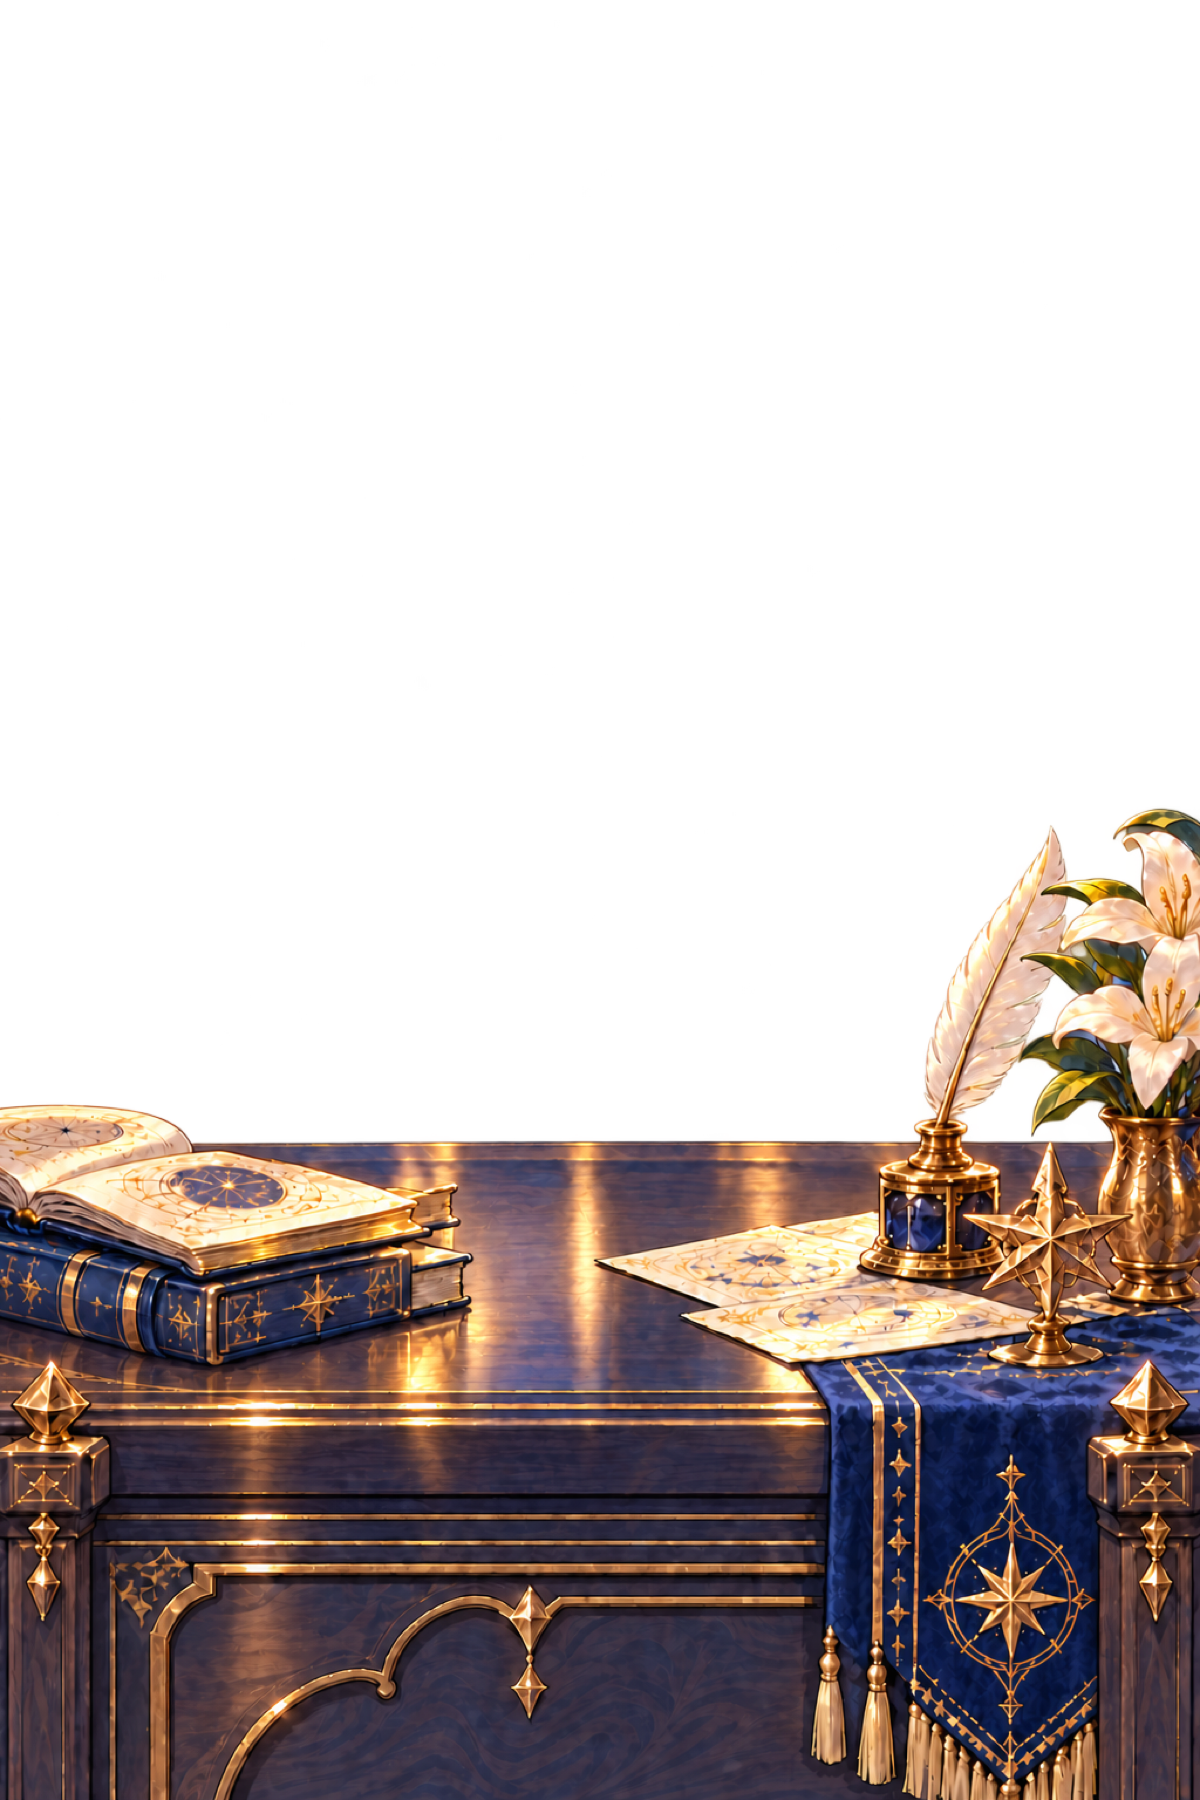
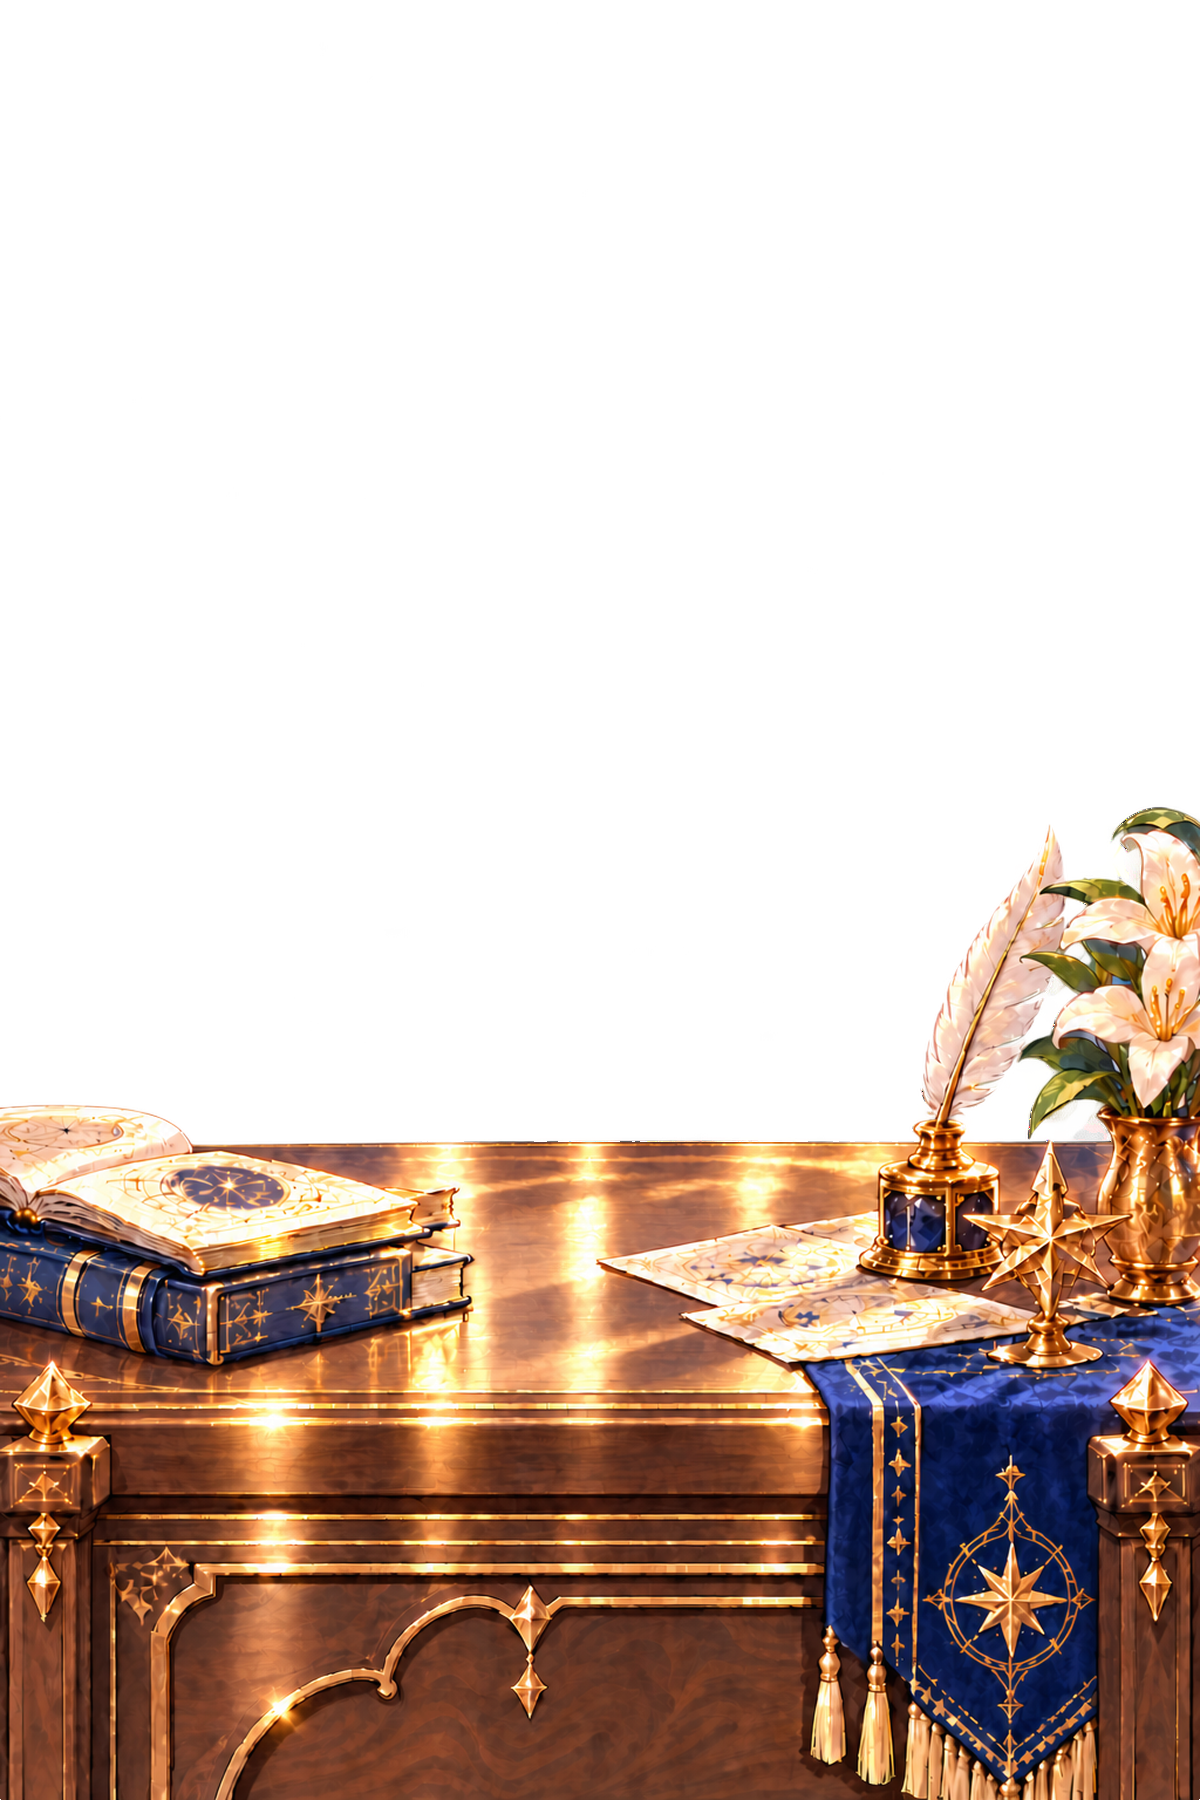
换用白天通透版背景，书桌更新为 Codex 第二版，减弱背景压暗层

Changed region(s): [[0.0, 0.4356, 1.0, 1.0]]

diff --git a/brand-override/skin-art.css b/brand-override/skin-art.css
@@ -214,7 +214,7 @@ $SKIN [data-dsh-academy-rail] {
   inset: 0;
   display: block;
   background:
-    linear-gradient(180deg, #433846 0px, #1e1a26 140px) left 0 top calc(104px + var(--dsh-desk-h) - 2px) / 100% 100% no-repeat,
+    linear-gradient(180deg, #76432b 0px, #2a2028 140px) left 0 top calc(104px + var(--dsh-desk-h) - 2px) / 100% 100% no-repeat,
     var(--dsh-academy-desk-src) left var(--dsh-ch-x) top 104px / var(--dsh-ch-w) var(--dsh-desk-h) no-repeat;
 }
 /* 角色在桌子前面：立绘下沿本身画了手臂轮廓（不是硬截断），不要加渐隐遮罩，否则手指和袖口会变成半透明。 */

diff --git a/brand-override/skin.css b/brand-override/skin.css
@@ -30,7 +30,8 @@ body[data-dsh-anime-skin="active"]::before {
   z-index: 0;
   inset: 0;
   pointer-events: none;
-  background-image: linear-gradient(180deg, #0c1c3948 0%, #10234124 48%, #0c1c3952 100%), var(--dsh-anime-workspace-background-src);
+  /* 背景已是白天通透版，压暗层只保留极淡一层，帮浅色文字在边缘处略有对比 */
+  background-image: linear-gradient(180deg, #0c1c3914 0%, #10234108 48%, #0c1c391c 100%), var(--dsh-anime-workspace-background-src);
   background-position: center, center;
   background-size: cover, cover;
   background-repeat: no-repeat, no-repeat;

diff --git a/docs/交接说明.md b/docs/交接说明.md
@@ -6,7 +6,7 @@
 ## 1. 这是什么
 
 DeepSeek Harness 桌面版（Electron）的**本地皮肤插件**，非官方，只改外观，不改应用本体和签名。
-目标外观以 `docs/reference/效果图.webp`（GPT 概念图）为准：全窗口书院夜景背景 + 左侧深蓝侧栏 + 中间金边对话框 + 底部胶囊输入框 + 右侧角色陪伴栏（立绘、书桌、对话气泡、四个表情）。
+目标外观以 `docs/reference/效果图.webp`（GPT 概念图）为准：全窗口书院背景（白天通透版） + 左侧深蓝侧栏 + 中间金边对话框 + 底部胶囊输入框 + 右侧角色陪伴栏（立绘、书桌、对话气泡、四个表情）。
 
 - 已发布 **v1.0.0**：GitHub `mofinnear/deepseek-harness-academy-skin`（公开），Release 附件 `dsh-academy-skin-v1.0.zip`。
 - v1.0 之后的改动都已在本地 git 提交，**尚未推送**，等用户说要发新版时再推送（可发 v1.1）。
@@ -55,7 +55,7 @@ DeepSeek Harness 桌面版（Electron）的**本地皮肤插件**，非官方，
 
 | 区域 | 现状 | 素材 |
 | --- | --- | --- |
-| 背景 | 全窗口书院夜景 | `academy-panorama.jpg` |
+| 背景 | 全窗口书院（白天通透版） | `academy-panorama-day.jpg`（旧黄昏版 `academy-panorama.jpg` 保留） |
 | 左侧栏 | 悬浮金边卡片；圆形头像 + DeepSeek 字标；皮肤下拉菜单在顶部收起按钮左侧；左下油灯、右下书本羽毛笔、两侧挂着的书页 | `academy-sidebar.jpg`、`ui/sidebar-frame.png`、`ui/sidebar-lamp.png`、`ui/sidebar-props.png`、`ui/hanging-notes.png` |
 | 对话框 | 金边九宫格边框，白底按边框内侧形状遮罩裁切；对话头像（DeepSeek / 用户） | `ui/panel-frame.png`、`ui/panel-fill-mask.png` |
 | 输入框 | 高清胶囊边框，按输入框高度等比缩放；粉色访问模式胶囊、绿色模型胶囊、蓝色发送钮 | `ui/composer-frame-v2.png` |
@@ -80,7 +80,7 @@ node tools/devtools.mjs eval "<JS>"                               # 查 DOM
 
 ## 7. 待办（当前）
 
-1. **白天通透版背景重新生成**（交给 Codex；书桌已完成）：任务说明见 `docs/codex-背景与书桌重绘.md`。用户不要程序提亮/调色，要重新生成。产出放 `<素材目录>/round5/`：`academy-panorama-day.jpg`、`desk-v5.png`。
+1. ~~白天通透版背景、书桌重新生成~~：**已完成**（2026-10-02），背景用 `academy-panorama-day.jpg`，书桌用 `ui/desk-v5.png`：任务说明见 `docs/codex-背景与书桌重绘.md`。用户不要程序提亮/调色，要重新生成。产出放 `<素材目录>/round5/`：`academy-panorama-day.jpg`、`desk-v5.png`。
    - 接入背景：改 `logo.config.json` 的 `skin.workspaceBackground.source`；视效果减弱 `skin.css` 里 `body::before` 的压暗渐变（目前仍是原来的 `#0c1c3948 → #0c1c3952`）。
    - 书桌：**已完成**，`ui/desk-v5.png` 已接入（2026-10-02）。
 2. **已知问题：人物和书桌光源不搭**（用户 2026-10-02 反馈，暂缓，先等白天背景）。原因：立绘是平涂、正面柔光的二次元赛璐璐画法；书桌是厚涂写实风，有强烈的暖色高光和反射。背景换好后再统一处理，可选方向：

diff --git a/docs/修改记录.md b/docs/修改记录.md
@@ -209,6 +209,13 @@ osascript -e 'quit app "DeepSeek Harness"' && open -a "DeepSeek Harness"
 
 ## 五、版本记录
 
+### 2026-10-02 · 换用白天通透版背景，书桌更新为 Codex 第二版
+
+- 背景：`round5/academy-panorama-day.jpg`（2560×1600，874 KB），晴天上午、阳光透窗、构图与原图一致。整图亮度（平均 / 暗部 / 高光）151 / 65 / 233，原图为 119 / 43 / 203。存为 `assets/academy-panorama-day.jpg` 并替换 `skin.workspaceBackground.source`；旧的黄昏背景保留不删。
+- `body::before` 的压暗渐变原本是为黄昏图配的，现在减到极淡（`#0c1c3914 → #0c1c391c`）。这是去掉多余的压暗，不是对图片提亮。
+- 书桌：`round5/desk-v5.png` 在接入后又被 Codex 更新（14:39）。新版轮廓 IoU 1.0，亮度 92 / 22 / 197，更接近参考图的 85 / 18 / 211，已替换。书桌下方补色改为 `#76432b → #2a2028`。
+- 验证：实机截图；`verify.mjs` 73/73。改动前备份：`backup/接入白天背景前-*`。
+
 ### 2026-10-02 · 换用 Codex 重新生成的书桌 desk-v5
 
 - `round5/desk-v5.png`：1200×1800、真透明，与 `desk-v4-original.png` 轮廓 IoU 0.997，桌面后沿同在 y≈1141，可直接替换，对齐逻辑不用动。
